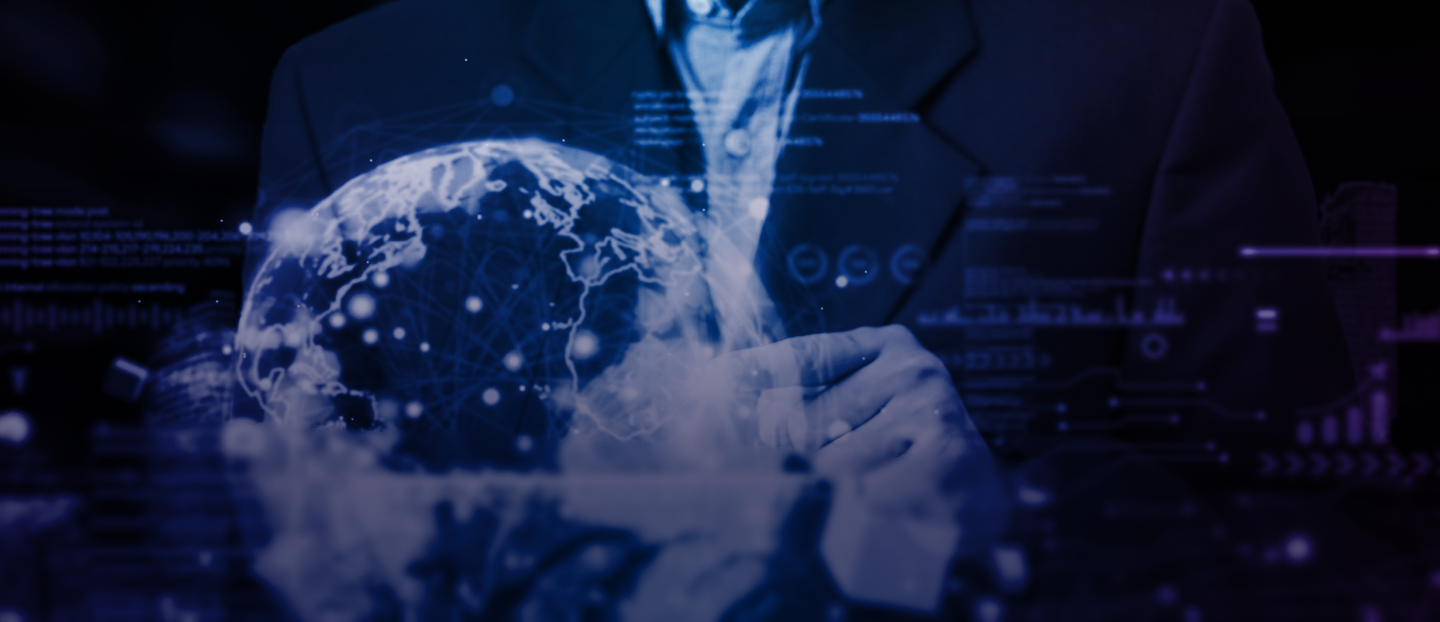
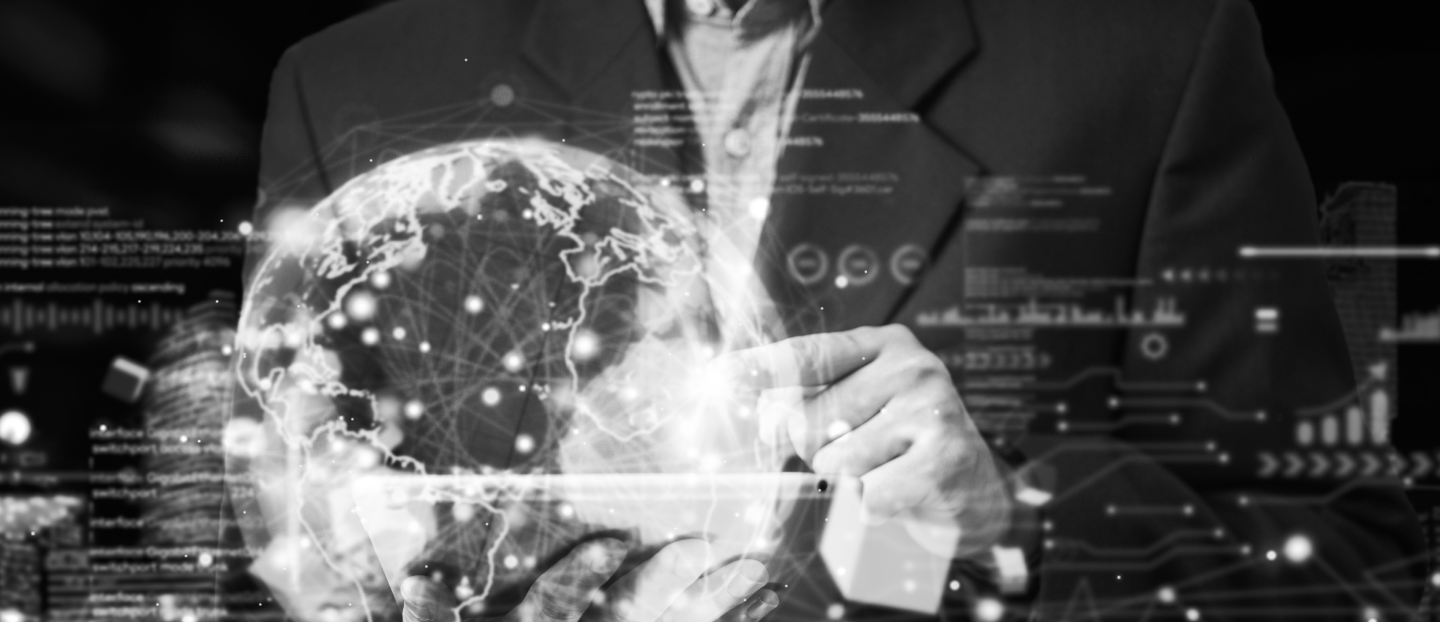
Slider responsive design in about us page

diff --git a/src/app/about/components/HeartSection.module.scss b/src/app/about/components/HeartSection.module.scss
@@ -4,21 +4,61 @@
   align-items: center;
   justify-content: center;
   padding-bottom: 70px;
+  overflow: hidden;
+  :global(.container){
+    @media screen and (max-width:767px) {
+      max-width: 100%;
+    }
+  }
 }
 .descText{
   color: $lightGray100;
   font-size: 20px;
   text-align: center;
   padding: 0 15px;
+  @media screen and (max-width:575px) {
+    font-size: 18px;
+    max-width: 290px;
+    margin: 0 auto;
+  }
 }
 .heading{
   @media screen and (max-width:575px) {
     max-width: 300px;
   }
 }
+.mobileHeartRing{
+  display: none;
+  @media screen and (max-width:767px) {
+    display: block;
+    width: 100%;
+    position: absolute;
+    left: 0;
+    top: 50%;
+    transform: translateY(-50%);
+  }
+  @media screen and (max-width:375px) {
+    top: 48%;
+  }
+}
 .heartWrapper {
   position: relative;
   padding-top: 180px;
+  min-width: 767px;
+  @media screen and (max-width: 1199px) {
+    padding-top: 220px;
+  }
+  @media screen and (max-width: 991px) {
+    padding-top: 240px;
+    left: 50%;
+    transform: translateX(-50%);
+  }
+  @media screen and (max-width: 767px) {
+    padding-top: 33%;
+  }
+  @media screen and (max-width: 425px) {
+    min-width: 677px;
+  }
   .heartRing {
     position: absolute;
     left: 0;
@@ -28,6 +68,9 @@
     text-align: center;
     max-width: 880px;
     margin: 0 auto;
+    @media screen and (max-width:767px) {
+      display: none;
+    }
   }
   .synergyHeart {
     position: absolute;
@@ -37,16 +80,53 @@
     text-align: center;
     z-index: 3;
     pointer-events: none;
+    @media screen and (max-width:767px) {
+      max-width: 70%;
+      margin: 0 auto;
+    }
+    img{
+      @media screen and (max-width:767px) {
+        max-width: 60%;
+        margin: 0 auto;
+        height: auto;
+      }
+      @media screen and (max-width:575px) {
+        max-width: 50%;
+      }
+      @media screen and (max-width:375px) {
+        max-width: 45%;
+      }
+    }
   }
   .heartSlideWrapper {
     display: flex;
     justify-content: center;
     position: relative;
     overflow: hidden;
+    @media screen and (max-width: 991px) {
+      justify-content: space-between;
+      overflow: visible;
+    }
     .heartItem {
       width: 33.33%;
       position: relative;
       max-height: 330px;
+      @media screen and (max-width: 991px) {
+        max-height: 290px;
+        width: calc(33.33% - 8px);
+      }
+      @media screen and (max-width: 575px) {
+        &:not(:nth-child(2)){
+          max-height: 230px;
+          width: calc(33.33% - 8px);
+          img{
+            width: 80%;
+          }
+          :global(.desc){
+            display: none
+          }
+        }
+      }
       &:nth-child(2) {
         margin-top: 10%;
       }
@@ -66,6 +146,10 @@
       img {
         margin: 0 auto;
         display: table;
+        @media screen and (max-width: 991px) {
+          width: 100%;          
+          height: auto;
+        }
       }
     }
     .heartContent {
@@ -86,6 +170,10 @@
         color: $white;
         font-size: 32px;
         margin-bottom: 20px;
+        @media screen and (max-width:991px) {
+          font-size: 24px;
+          margin-bottom: 10px;
+        }
         &::first-letter {
           text-transform: capitalize;
         }

diff --git a/src/shared/BannerSection.module.scss b/src/shared/BannerSection.module.scss
@@ -3,23 +3,43 @@
   background-size: cover;
   background-repeat: no-repeat;
   background-position: bottom;
+  position: relative;
   @media screen and (max-width: 991px) {
     height: 700px;
   }
   @media screen and (max-width: 767px) {
     height: 622px;
   }
-  &.overlay{
-    &::after{
-      content: '';
-      background: linear-gradient(270deg, rgba(34, 31, 115, 0) 0%, #0B0B3C 75.72%);
-      background-blend-mode: multiply;
-      position: absolute;
-      right: 0;
-      left: 0;
-      top: 0;
-      bottom: 0;
-    }
+  &::after{
+    content: '';
+    background: linear-gradient(270deg, rgba(34, 31, 115, 0) 0%, #0B0B3C 75.72%);
+    mix-blend-mode: multiply;
+    position: absolute;
+    right: 0;
+    left: 0;
+    top: 0;
+    bottom: 0;
+  }
+  &::before{
+    content: '';
+    background: linear-gradient(90deg, #2F308D -0.37%, #0054A6 49.81%, #662D91 100%);
+    position: absolute;
+    right: 0;
+    top: 0;
+    bottom: 0;
+    width: 100%;
+    mix-blend-mode: overlay;
+  }
+  .linearOverlay{
+    content: '';
+    position: absolute;
+    background: linear-gradient(6.28deg, rgba(0, 0, 0, 0.47) -31.14%, rgba(134, 134, 134, 0) 30.73%);
+    backdrop-filter: blur(10px);
+    right: 0;
+    left: 0;
+    top: 0;
+    bottom: 0;
+    z-index: -1;
   }
   .heroHeadingWrapper{
     @media screen and (max-width:767px) {
@@ -46,6 +66,9 @@
       line-height: 54px;
       max-width: 80%;
       margin-bottom: 40px;
+    }
+    @media screen and (max-width: 425px) {
+      max-width: 94%;
     }
   }
   span {

diff --git a/src/app/about/components/HeartSection.jsx b/src/app/about/components/HeartSection.jsx
@@ -118,7 +118,10 @@ const HeartSection = () => {
       <p className={styles.descText}>
         Our core values that guide every aspect of our work
       </p>
-      <SYContainer>
+      <SYContainer className="position-relative">
+        <div className={`${styles.heartRing} ${styles.mobileHeartRing}`}>
+            <Image src={HeartRing} alt="Heart Ring" layout="responsive" />
+        </div>
         <div className={styles.heartWrapper}>
           <div className={styles.heartRing}>
             <Image src={HeartRing} alt="Heart Ring" layout="responsive" />
@@ -153,7 +156,7 @@ const HeartSection = () => {
                   onClick={() => handleCardClick(indexInArrayScope + index)} // Handle card click
                 >
                   <Image src={HeartContentBox} alt="Heart Content Box" />
-                  <div className={styles.heartContent}>
+                  <div className={`${styles.heartContent} desc`}>
                     <h4>{wrapCapitalizedLetters(item.title)}</h4>
                     <p>{item.description}</p>
                   </div>

diff --git a/src/shared/BannerSection.jsx b/src/shared/BannerSection.jsx
@@ -5,9 +5,10 @@ import SYContainer from "./SYContainer";
 const BannerSection = ({ ...props }) => {
   return (
     <div
-      className={`${styles.heroMain} ${props.overlay ? styles.overlay : ''}`}
+      className={styles.heroMain}
       style={{ backgroundImage: `url('${props.image}')` }}
     >
+      <div className={styles.linearOverlay}></div>
       <SYContainer className="h-100 position-relative z-1">
         <div className={`d-flex flex-column h-100 justify-content-end ${styles.heroHeadingWrapper}`}>
           <span>{props.subHead}</span>

diff --git a/src/app/about/components/OurMission.module.scss b/src/app/about/components/OurMission.module.scss
@@ -8,6 +8,9 @@
     padding: 46px 48px;
     margin-bottom: 32px;
     text-align: center;
+    @media screen and (max-width:425px) {
+      padding: 24px;
+    }
     &:last-of-type {
       margin-bottom: 0;
     }
@@ -19,6 +22,10 @@
       color: $lightGray200;
       font-family: "raleway-medium";
       margin-top: 16px;
+      @media screen and (max-width:425px) {
+        font-size: 18px;
+        line-height: 28px;
+      }
     }
   }
 }

diff --git a/src/app/about/components/HroSection.module.scss b/src/app/about/components/HroSection.module.scss
@@ -1,10 +1,13 @@
 .lineHeadMain {
-  padding: 105px 15px 80px;
+  padding: 105px 22px 80px 0;
   @media screen and (max-width: 991px) {
     padding: 80px 0 60px;
   }
   @media screen and (max-width: 991px) {
     padding: 60px 20px 60px 15px;
     margin-top: 24px;
+  }
+  @media screen and (max-width: 575px) {
+    padding: 60px 0 60px 0;
   }
 }

diff --git a/src/shared/GetInTouch.module.scss b/src/shared/GetInTouch.module.scss
@@ -52,6 +52,10 @@
       font-family: "raleway-semibold";
       max-width: 1050px;
       margin: 0 auto;
+      @media screen and (max-width: 425px) {
+        font-size: 28px;
+        line-height: 36px;
+      }
     }
     p {
       font-size: 20px;

diff --git a/src/app/about/components/AboutInfoSection.module.scss b/src/app/about/components/AboutInfoSection.module.scss
@@ -7,10 +7,7 @@
     margin-top: 120px;
   }
   @media screen  and (max-width: 767px) {
-    margin-top: 80px;
-  }
-  @media screen  and (max-width: 575px) {
-    margin-top: 70px;
+    margin-top: 30px;
   }
   &:before {
     content: "";

diff --git a/src/component/Header.module.scss b/src/component/Header.module.scss
@@ -21,7 +21,7 @@
     @media screen and (max-width: 991px) {
       position: fixed;
       z-index: 999;
-      right: -250px;
+      right: -350px;
       top: 0;
       height: 100vh;
       background-color: $white;

diff --git a/src/app/globals.scss b/src/app/globals.scss
@@ -140,6 +140,9 @@ h5 {
   border-radius: 30px;
   font-size: 20px;
   font-weight: 100;
+  @media screen and (max-width:375px) {
+    font-size: 16px;
+  }
   &.hide-arrow {
     margin-right: 0;
   }
